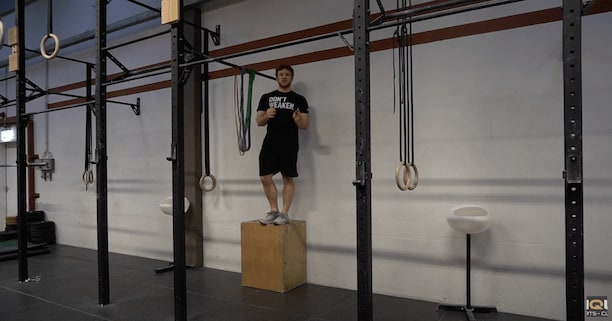
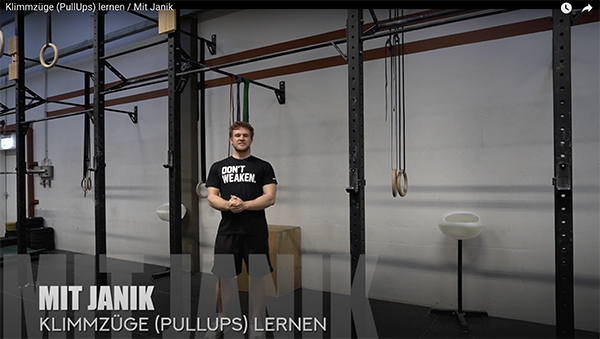
Textänderung

diff --git a/content/deutsch/blog/yt_pu.md b/content/deutsch/blog/yt_pu.md
@@ -1,0 +1,12 @@
+---
+title: "Pullup (Klimmzüge) lernen mit Janik"
+date: 2021-03-16T12:52:36+06:00
+image_webp: images/blog/yt_pullups.webp
+image: images/blog/yt_pullups.jpg
+author: Markus Schmid
+description : "This is meta description"
+---
+
+Coach Janik lernt euch in diesem Video, wie man Pullups macht. Gut und einfach erklärt. Viel Spass!
+
+{{< youtube id="7ZKFHD-zcVI" title="Klimmzüge (PullUps) lernen / Mit Janik">}}
